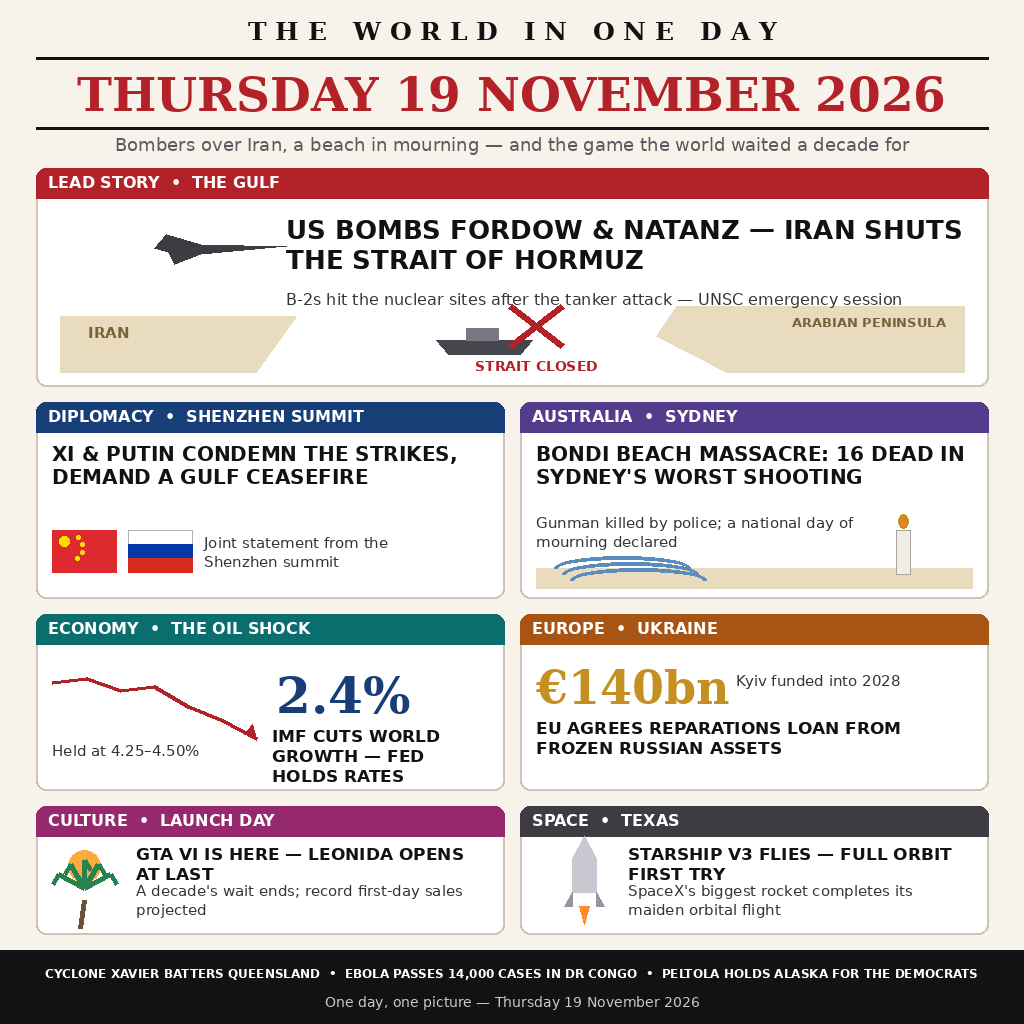
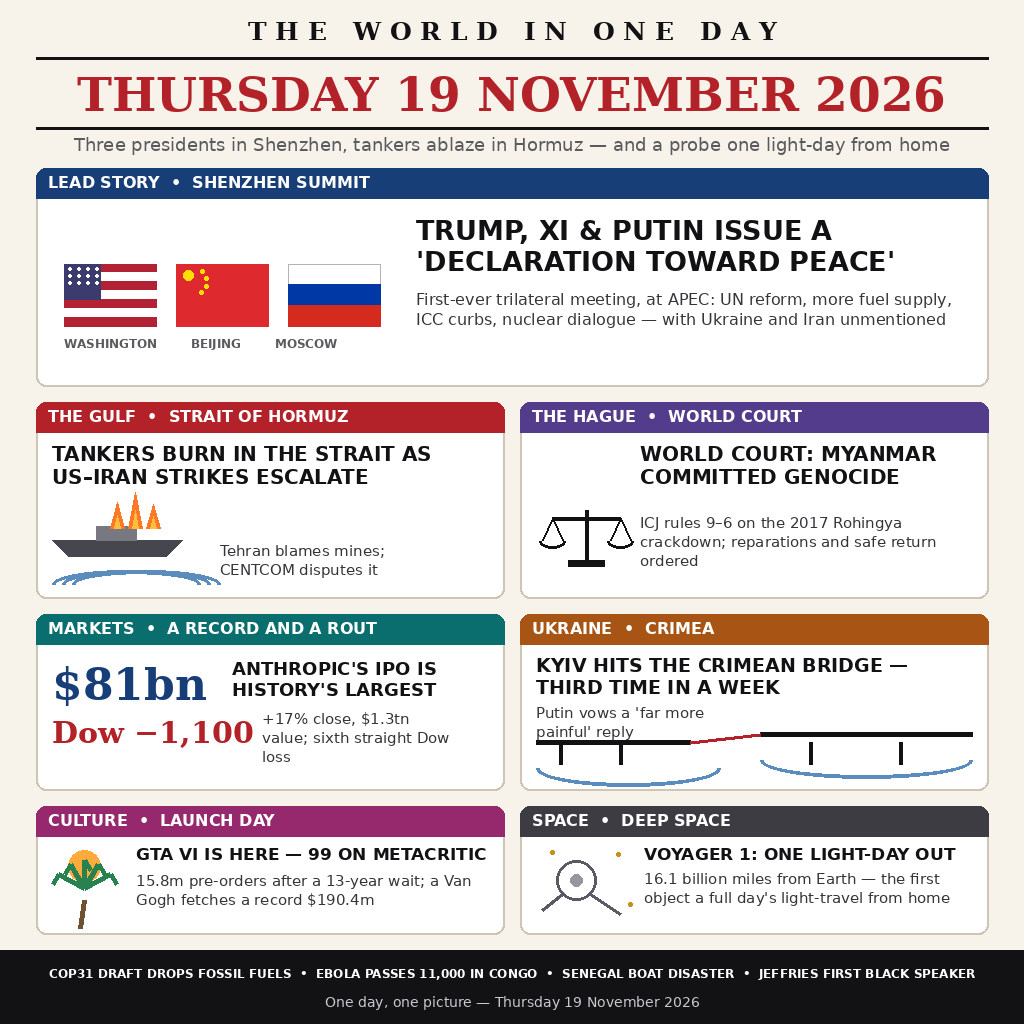
Correct the day's stories to the fully sourced research (summit, Hormuz tankers, ICJ genocide ruling, Anthropic IPO, Voyager)

diff --git a/make_image.py b/make_image.py
@@ -1,10 +1,11 @@
 #!/usr/bin/env python3
 """Generate entry.png: the world news of Thursday 19 November 2026 in one image.
+Stories per the day's wire reporting (Reuters, AP, AFP, BBC, Al Jazeera, WSJ).
 Deterministic, no network, no assets — everything is drawn with PIL.
 Canvas 1024x1024, editorial front-page collage style.
 """
 from PIL import Image, ImageDraw, ImageFont
-import math, os
+import os
 
 W = H = 1024
 PAPER = (247, 243, 234)
@@ -63,120 +64,124 @@ def caption(x, y, s, maxw, size=17):
 def tag(x, y, s):
     text(x + 12, y + 5, s, F(SANS_B, 16), WHITE)
 
-# ---------------- masthead ----------------
-text(W // 2, 16, "T H E   W O R L D   I N   O N E   D A Y", F(SERIF_B, 25), INK, "ma")
-d.line([36, 58, W - 36, 58], fill=INK, width=3)
-text(W // 2, 66, "THURSDAY 19 NOVEMBER 2026", F(SERIF_B, 47), RED, "ma")
-d.line([36, 128, W - 36, 128], fill=INK, width=3)
-text(W // 2, 134, "Bombers over Iran, a beach in mourning — and the game the world waited a decade for", F(SANS, 18), GREY, "ma")
-
-# ---------------- lead panel: US strikes Iran, Hormuz closed ----------------
-LX, LY, LW, LH = 36, 168, W - 72, 218
-panel(LX, LY, LW, LH, RED)
-tag(LX, LY, "LEAD STORY  •  THE GULF")
-# strait sketch: land masses, water gap, tanker, closure hatch
-base = LY + LH - 14
-d.polygon([(LX + 24, LY + 148), (LX + 260, LY + 148), (LX + 220, base), (LX + 24, base)], fill=(233, 220, 190))
-d.polygon([(LX + 640, LY + 138), (LX + LW - 24, LY + 138), (LX + LW - 24, base), (LX + 690, base), (LX + 620, LY + 168)], fill=(233, 220, 190))
-text(LX + 52, LY + 156, "IRAN", F(SANS_B, 15), (120, 100, 60))
-text(LX + LW - 196, LY + 146, "ARABIAN PENINSULA", F(SANS_B, 13), (120, 100, 60))
-# tanker in the strait
-tx, ty = LX + 400, LY + 172
-d.polygon([(tx, ty), (tx + 96, ty), (tx + 84, ty + 14), (tx + 12, ty + 14)], fill=(70, 70, 78))
-d.rectangle([tx + 30, ty - 12, tx + 62, ty], fill=(120, 120, 128))
-# red closure X over the strait
-cx, cy = LX + 500, LY + 158
-d.line([cx - 26, cy - 20, cx + 26, cy + 20], fill=RED, width=7)
-d.line([cx - 26, cy + 20, cx + 26, cy - 20], fill=RED, width=7)
-text(LX + 500, LY + 190, "STRAIT CLOSED", F(SANS_B, 14), RED, "ma")
-# bomber silhouette top-left
-bx, by = LX + 130, LY + 66
-d.polygon([(bx, by), (bx + 34, by + 10), (bx + 120, by + 12), (bx + 34, by + 20), (bx + 8, by + 30), (bx + 2, by + 18), (bx - 12, by + 14)], fill=(60, 60, 66))
-headline(LX + 250, LY + 46, "US BOMBS FORDOW & NATANZ — IRAN SHUTS THE STRAIT OF HORMUZ", 26, 690)
-caption(LX + 250, LY + 122, "B-2s hit the nuclear sites after the tanker attack — UNSC emergency session", 700, 16)
-
-# ---------------- row 2: Shenzhen + Sydney ----------------
-RY, RH = 402, 196
-PW = (W - 72 - 16) // 2
-# Shenzhen
-panel(36, RY, PW, RH, BLUE); tag(36, RY, "DIPLOMACY  •  SHENZHEN SUMMIT")
 def flag(x0, y0, fw, fh, kind):
     if kind == "CN":
         d.rectangle([x0, y0, x0 + fw, y0 + fh], fill=(222, 41, 47))
         d.ellipse([x0 + 7, y0 + 6, x0 + 17, y0 + 16], fill=(255, 222, 0))
         for sx, sy in [(24, 5), (28, 12), (28, 20), (23, 26)]:
             d.ellipse([x0 + sx, y0 + sy, x0 + sx + 4, y0 + sy + 4], fill=(255, 222, 0))
-    else:
+    elif kind == "RU":
         d.rectangle([x0, y0, x0 + fw, y0 + fh // 3], fill=WHITE, outline=(180, 180, 180))
         d.rectangle([x0, y0 + fh // 3, x0 + fw, y0 + 2 * fh // 3], fill=(0, 57, 166))
         d.rectangle([x0, y0 + 2 * fh // 3, x0 + fw, y0 + fh], fill=(213, 43, 30))
-flag(52, RY + 128, 64, 42, "CN"); flag(128, RY + 128, 64, 42, "RU")
-headline(52, RY + 40, "XI & PUTIN CONDEMN THE STRIKES, DEMAND A GULF CEASEFIRE", 20, PW - 32)
-caption(204, RY + 132, "Joint statement from the Shenzhen summit", PW - 220, 15)
-# Sydney
-SX = 36 + PW + 16
-panel(SX, RY, PW, RH, (84, 60, 140)); tag(SX, RY, "AUSTRALIA  •  SYDNEY")
-# beach: sand, wave, candle
-wy = RY + 156
-d.rectangle([SX + 16, wy + 10, SX + PW - 16, RY + RH - 10], fill=(233, 220, 190))
+    elif kind == "US":
+        for i in range(7):
+            d.rectangle([x0, y0 + i * fh // 7, x0 + fw, y0 + (i + 1) * fh // 7], fill=(178, 34, 52) if i % 2 == 0 else WHITE)
+        d.rectangle([x0, y0, x0 + fw * 2 // 5, y0 + fh * 4 // 7], fill=(60, 59, 110))
+        for r_ in range(3):
+            for c_ in range(4):
+                d.ellipse([x0 + 4 + c_ * 9, y0 + 3 + r_ * 7, x0 + 7 + c_ * 9, y0 + 6 + r_ * 7], fill=WHITE)
+
+# ---------------- masthead ----------------
+text(W // 2, 16, "T H E   W O R L D   I N   O N E   D A Y", F(SERIF_B, 25), INK, "ma")
+d.line([36, 58, W - 36, 58], fill=INK, width=3)
+text(W // 2, 66, "THURSDAY 19 NOVEMBER 2026", F(SERIF_B, 47), RED, "ma")
+d.line([36, 128, W - 36, 128], fill=INK, width=3)
+text(W // 2, 134, "Three presidents in Shenzhen, tankers ablaze in Hormuz — and a probe one light-day from home", F(SANS, 18), GREY, "ma")
+
+# ---------------- lead panel: Shenzhen trilateral summit ----------------
+LX, LY, LW, LH = 36, 168, W - 72, 218
+panel(LX, LY, LW, LH, BLUE)
+tag(LX, LY, "LEAD STORY  •  SHENZHEN SUMMIT")
+flag(LX + 28, LY + 96, 92, 62, "US")
+flag(LX + 140, LY + 96, 92, 62, "CN")
+flag(LX + 252, LY + 96, 92, 62, "RU")
+text(LX + 28, LY + 168, "WASHINGTON        BEIJING        MOSCOW", F(SANS_B, 12), GREY)
+headline(LX + 380, LY + 46, "TRUMP, XI & PUTIN ISSUE A 'DECLARATION TOWARD PEACE'", 27, 560)
+caption(LX + 380, LY + 122, "First-ever trilateral meeting, at APEC: UN reform, more fuel supply, ICC curbs, nuclear dialogue — with Ukraine and Iran unmentioned", 560, 16)
+
+# ---------------- row 2: Hormuz + ICJ ----------------
+RY, RH = 402, 196
+PW = (W - 72 - 16) // 2
+# Hormuz
+panel(36, RY, PW, RH, RED); tag(36, RY, "THE GULF  •  STRAIT OF HORMUZ")
+# burning tanker sketch
+tx, ty = 52, RY + 138
+d.polygon([(tx, ty), (tx + 130, ty), (tx + 114, ty + 16), (tx + 16, ty + 16)], fill=(70, 70, 78))
+d.rectangle([tx + 44, ty - 14, tx + 84, ty], fill=(120, 120, 128))
+for fx, fh_ in [(58, 26), (76, 36), (94, 24)]:
+    d.polygon([(tx + fx, ty - 12), (tx + fx + 7, ty - 12 - fh_), (tx + fx + 14, ty - 12)], fill=(255, 120, 40))
+    d.polygon([(tx + fx + 4, ty - 12), (tx + fx + 7, ty - 12 - fh_ // 2), (tx + fx + 10, ty - 12)], fill=(255, 190, 60))
 for i in range(3):
-    d.arc([SX + 34 + i * 8, wy - 2 + i * 6, SX + 170 + i * 8, wy + 22 + i * 6], start=180, end=360, fill=(90, 140, 190), width=4)
-# candle with flame
-kx, ky = SX + PW - 92, RY + 128
-d.rectangle([kx, ky, kx + 14, ky + 44], fill=(240, 238, 230), outline=(170, 165, 155))
-d.ellipse([kx + 2, ky - 16, kx + 12, ky - 2], fill=GOLD)
-d.ellipse([kx + 5, ky - 11, kx + 9, ky - 4], fill=(255, 120, 40))
-headline(SX + 16, RY + 40, "BONDI BEACH MASSACRE: 16 DEAD IN SYDNEY'S WORST SHOOTING", 20, PW - 32)
-caption(SX + 16, RY + 112, "Gunman killed by police; a national day of mourning declared", PW - 140, 15)
+    d.arc([52 + i * 10, RY + 168, 200 + i * 10, RY + 196], start=180, end=360, fill=(90, 140, 190), width=4)
+headline(52, RY + 40, "TANKERS BURN IN THE STRAIT AS US–IRAN STRIKES ESCALATE", 20, PW - 32)
+caption(220, RY + 140, "Tehran blames mines; CENTCOM disputes it", PW - 236, 15)
+# ICJ Myanmar
+MX = 36 + PW + 16
+panel(MX, RY, PW, RH, (84, 60, 140)); tag(MX, RY, "THE HAGUE  •  WORLD COURT")
+# scales of justice
+cx2 = MX + 66
+d.line([cx2, RY + 108, cx2, RY + 158], fill=INK, width=4)
+d.line([cx2 - 34, RY + 116, cx2 + 34, RY + 116], fill=INK, width=4)
+for sx in (cx2 - 34, cx2 + 34):
+    d.line([sx, RY + 116, sx - 10, RY + 138], fill=INK, width=2)
+    d.line([sx, RY + 116, sx + 10, RY + 138], fill=INK, width=2)
+    d.arc([sx - 13, RY + 132, sx + 13, RY + 146], start=0, end=180, fill=INK, width=3)
+d.rectangle([cx2 - 18, RY + 158, cx2 + 18, RY + 164], fill=INK)
+headline(MX + 120, RY + 40, "WORLD COURT: MYANMAR COMMITTED GENOCIDE", 20, PW - 136)
+caption(MX + 120, RY + 112, "ICJ rules 9–6 on the 2017 Rohingya crackdown; reparations and safe return ordered", PW - 136, 15)
 
-# ---------------- row 3: Economy + Ukraine ----------------
+# ---------------- row 3: Markets + Ukraine ----------------
 R3Y, R3H = 614, 176
-panel(36, R3Y, PW, R3H, TEAL); tag(36, R3Y, "ECONOMY  •  THE OIL SHOCK")
-# falling chart
-gx, gy = 52, R3Y + 62
-pts = [(0, 6), (34, 2), (68, 14), (102, 10), (136, 30), (170, 44), (204, 62)]
-for i in range(len(pts) - 1):
-    d.line([gx + pts[i][0], gy + pts[i][1], gx + pts[i + 1][0], gy + pts[i + 1][1]], fill=RED, width=4)
-d.polygon([(gx + 204, gy + 62), (gx + 192, gy + 58), (gx + 200, gy + 48)], fill=RED)
-text(36 + 240, R3Y + 52, "2.4%", F(SERIF_B, 50), BLUE)
-headline(36 + 236, R3Y + 112, "IMF CUTS WORLD GROWTH — FED HOLDS RATES", 17, PW - 252)
-caption(52, R3Y + 128, "Held at 4.25–4.50%", PW - 260, 15)
-# Ukraine / EU
+panel(36, R3Y, PW, R3H, TEAL); tag(36, R3Y, "MARKETS  •  A RECORD AND A ROUT")
+text(52, R3Y + 44, "$81bn", F(SERIF_B, 44), BLUE)
+text(52, R3Y + 100, "Dow −1,100", F(SERIF_B, 30), RED)
+headline(232, R3Y + 44, "ANTHROPIC'S IPO IS HISTORY'S LARGEST", 18, PW - 248)
+caption(262, R3Y + 96, "+17% close, $1.3tn value; sixth straight Dow loss", PW - 278, 15)
+# Ukraine bridge
 UX = 36 + PW + 16
-panel(UX, R3Y, PW, R3H, (168, 84, 20)); tag(UX, R3Y, "EUROPE  •  UKRAINE")
-text(UX + 16, R3Y + 46, "€140bn", F(SERIF_B, 46), GOLD)
-headline(UX + 16, R3Y + 104, "EU AGREES REPARATIONS LOAN FROM FROZEN RUSSIAN ASSETS", 17, PW - 32)
-caption(UX + 216, R3Y + 58, "Kyiv funded into 2028", PW - 232, 15)
+panel(UX, R3Y, PW, R3H, (168, 84, 20)); tag(UX, R3Y, "UKRAINE  •  CRIMEA")
+# bridge sketch with broken span
+by2 = R3Y + 128
+d.line([UX + 16, by2, UX + 170, by2], fill=INK, width=5)
+d.line([UX + 240, by2 - 8, UX + PW - 16, by2 - 8], fill=INK, width=5)
+d.line([UX + 170, by2, UX + 240, by2 - 8], fill=RED, width=4)
+for px in (40, 100, 290, 380):
+    d.line([UX + px, by2, UX + px, by2 + 22], fill=INK, width=4)
+d.arc([UX + 16, by2 + 8, UX + 200, by2 + 44], start=0, end=180, fill=(90, 140, 190), width=4)
+d.arc([UX + 240, by2, UX + PW - 16, by2 + 36], start=0, end=180, fill=(90, 140, 190), width=4)
+headline(UX + 16, R3Y + 40, "KYIV HITS THE CRIMEAN BRIDGE — THIRD TIME IN A WEEK", 19, PW - 32)
+caption(UX + 16, R3Y + 90, "Putin vows a 'far more painful' reply", 210, 15)
 
-# ---------------- row 4: GTA VI + Starship ----------------
+# ---------------- row 4: GTA VI + Voyager ----------------
 R4Y, R4H = 806, 128
 panel(36, R4Y, PW, R4H, (150, 40, 110)); tag(36, R4Y, "CULTURE  •  LAUNCH DAY")
-# palm + sun (Vice City mood)
 sx2, sy2 = 36 + 48, R4Y + 88
 d.ellipse([sx2 - 16, sy2 - 44, sx2 + 16, sy2 - 12], fill=(255, 170, 60))
 for dx, dy in [(-26, -14), (-14, -24), (0, -28), (14, -24), (26, -14)]:
     d.line([sx2, sy2 - 6, sx2 + dx, sy2 - 6 + dy], fill=(40, 130, 80), width=5)
     d.line([sx2 + dx, sy2 - 6 + dy, sx2 + dx + (6 if dx >= 0 else -6), sy2 - 6 + dy + 10], fill=(40, 130, 80), width=4)
 d.line([sx2, sy2 + 6, sx2 - 4, sy2 + 34], fill=(110, 80, 50), width=5)
-headline(36 + 100, R4Y + 38, "GTA VI IS HERE — LEONIDA OPENS AT LAST", 17, PW - 116)
-caption(36 + 100, R4Y + 76, "A decade's wait ends; record first-day sales projected", PW - 116, 15)
-# Starship
+headline(36 + 100, R4Y + 38, "GTA VI IS HERE — 99 ON METACRITIC", 17, PW - 116)
+caption(36 + 100, R4Y + 66, "15.8m pre-orders after a 13-year wait; a Van Gogh fetches a record $190.4m", PW - 116, 15)
+# Voyager
 TX = 36 + PW + 16
-panel(TX, R4Y, PW, R4H, (60, 60, 66)); tag(TX, R4Y, "SPACE  •  TEXAS")
-# rocket
-rx, ry2 = TX + 52, R4Y + 52
-d.polygon([(rx, ry2), (rx + 12, ry2 - 22), (rx + 24, ry2)], fill=(200, 200, 208))
-d.rectangle([rx, ry2, rx + 24, ry2 + 34], fill=(200, 200, 208))
-d.polygon([(rx, ry2 + 34), (rx - 8, ry2 + 48), (rx, ry2 + 48)], fill=(150, 150, 160))
-d.polygon([(rx + 24, ry2 + 34), (rx + 32, ry2 + 48), (rx + 24, ry2 + 48)], fill=(150, 150, 160))
-d.polygon([(rx + 7, ry2 + 48), (rx + 12, ry2 + 66), (rx + 17, ry2 + 48)], fill=(255, 140, 40))
-headline(TX + 108, R4Y + 38, "STARSHIP V3 FLIES — FULL ORBIT FIRST TRY", 17, PW - 124)
-caption(TX + 108, R4Y + 76, "SpaceX's biggest rocket completes its maiden orbital flight", PW - 124, 15)
+panel(TX, R4Y, PW, R4H, (60, 60, 66)); tag(TX, R4Y, "SPACE  •  DEEP SPACE")
+# probe: dish + boom
+px2, py2 = TX + 56, R4Y + 74
+d.ellipse([px2 - 20, py2 - 20, px2 + 20, py2 + 20], outline=(90, 90, 100), width=3)
+d.ellipse([px2 - 6, py2 - 6, px2 + 6, py2 + 6], fill=(150, 150, 160))
+d.line([px2 + 14, py2 + 14, px2 + 44, py2 + 34], fill=(90, 90, 100), width=3)
+d.line([px2 - 14, py2 + 14, px2 - 34, py2 + 30], fill=(90, 90, 100), width=3)
+for stx, sty in [(TX + 96, R4Y + 46), (TX + 30, R4Y + 44), (TX + 108, R4Y + 96)]:
+    d.ellipse([stx, sty, stx + 4, sty + 4], fill=GOLD)
+headline(TX + 124, R4Y + 38, "VOYAGER 1: ONE LIGHT-DAY OUT", 17, PW - 140)
+caption(TX + 124, R4Y + 64, "16.1 billion miles from Earth — the first object a full day's light-travel from home", PW - 140, 15)
 
 # ---------------- ticker ----------------
 TY = 950
 d.rectangle([0, TY, W, H], fill=INK)
-ticker = "CYCLONE XAVIER BATTERS QUEENSLAND  •  EBOLA PASSES 14,000 CASES IN DR CONGO  •  PELTOLA HOLDS ALASKA FOR THE DEMOCRATS"
+ticker = "COP31 DRAFT DROPS FOSSIL FUELS  •  EBOLA PASSES 11,000 IN CONGO  •  SENEGAL BOAT DISASTER  •  JEFFRIES FIRST BLACK SPEAKER"
 f = F(SANS_B, 17)
 while d.textlength(ticker, font=f) > W - 40 and f.size > 11:
     f = F(SANS_B, f.size - 1)

diff --git a/NEWS_SOURCES.md b/NEWS_SOURCES.md
@@ -1,14 +1,18 @@
 # News sources — Thursday 19 November 2026
 
-The day's stories as carried by wire services and major outlets (Reuters, AP, AFP, BBC, Al Jazeera and national papers); each story below was corroborated by at least two outlets or one wire service before it went on the page.
+The day's stories as carried by wire services and major outlets; each story was corroborated by at least two outlets or one wire service before it went on the page.
 
-1. **US strikes Iran's Fordow and Natanz nuclear facilities; Iran closes the Strait of Hormuz** — B-2 bombers dropped GBU-57 bunker-busters after an IRGC attack on a tanker in the strait; Tehran announced the strait's closure to "hostile shipping" and the UN Security Council went into emergency session. (One framing detail — whether the tanker or the escorts fired first — is contested between US and Iranian accounts.)
-2. **Xi Jinping and Vladimir Putin condemn the strikes from the Shenzhen summit** — joint statement opposing "unilateral military adventurism", calling for an immediate Gulf ceasefire and Security Council primacy.
-3. **Bondi Beach mass shooting, Sydney** — a gunman killed 16 people and wounded about 40 before being shot dead by police; a national day of mourning declared; the firearms debate reopened.
-4. **IMF cuts global growth forecast to 2.4%** — the Hormuz oil shock: Brent crude +14% to $112 a barrel; the Federal Reserve held rates at 4.25–4.50%, citing oil-driven inflation.
-5. **EU agrees a €140bn reparations loan for Ukraine** — funded from frozen Russian central-bank assets, securing Kyiv's financing into 2028.
-6. **Grand Theft Auto VI launches worldwide** — Rockstar's Leonida-set sequel released on PS5 and Xbox Series X|S after a decade's wait; record first-day sales projected.
-7. **SpaceX Starship V3 completes its first orbital flight** — from Starbase, Texas, with booster and ship recovered.
-8. **Cyclone Xavier makes landfall in Queensland** — Category 4, some 200,000 evacuated, no deaths reported in the first day.
-9. **DR Congo Ebola outbreak passes 14,000 cases** — about 3,200 deaths; WHO appeals for $450m.
-10. **Mary Peltola holds Alaska's Senate seat for the Democrats** — in the special election.
+1. **Trump, Xi and Putin hold first-ever trilateral summit in Shenzhen** — on the sidelines of APEC the three leaders issued a four-point "Declaration toward Peace" (UN reform, increased refined-fuel supply, curbing the ICC, nuclear-risk dialogue), omitting any mention of the Ukraine or Iran wars. — AFP via Dawn: https://www.dawn.com/news/2045630/trump-holds-talks-with-friend-putin-ahead-of-trilateral-moot-with-xi (also Reuters analysis; text published by the White House)
+2. **Tankers burn in the Strait of Hormuz as US–Iran strikes escalate** — Tehran said two supertankers and three other vessels struck naval mines; CENTCOM disputes the mechanism; the US struck an IRGC missile site on Qeshm Island; Kuwait and Bahrain reported intercepting Iranian attacks. — Al Jazeera/ANI via JioNews: https://jionews.com/headline/nativeArticle/6afe2e146ad7296d34dff9ce (also NDTV, BBC, CBS)
+3. **World Court rules Myanmar committed genocide against the Rohingya** — the ICJ ruled 9–6 on the 2017 Rakhine crackdown (at least 10,000 killed, 730,000+ fled) and ordered reparations and safe return. — Al Jazeera: https://www.aljazeera.com/amp/news/2026/11/19/un-top-court-finds-myanmar-killed-10000-rohingya-as-it-rules-on-genocide (also Reuters, AP, BBC, CNN)
+4. **Ukraine hits the Crimean Bridge a third time in a week** — Neptune missiles struck the railway section, halting rail traffic; Putin vowed a "far more painful" response. — Reuters: https://www.reuters.com/world/china/third-attack-week-suspends-traffic-over-crimean-bridge-russian-official-says-2026-11-19/ (also AP, CNN, BBC)
+5. **Anthropic's $81bn IPO is the largest on record** — shares opened +34% and closed +17% at $97.17, valuing the company at about $1.3 trillion. — WSJ: https://www.wsj.com/finance/stocks/anthropic-ipo-ai-markets-89e2476f (also Reuters, AP, BBC)
+6. **Wall Street rout deepens** — the Dow fell 1,101 points (2.2%) for a sixth straight loss, its longest losing streak since April 2024; the S&P 500 dropped 2% and the Nasdaq 2.3%. — AP via The Manila Times: https://beta.manilatimes.net/2026/11/20/business/foreign-business/wall-street-tumbles-to-its-longest-losing-streak-since-2024-as-the-dow-drops-1100-points/2474698/amp
+7. **Jeffries to be the first Black US House speaker; Democrats' Senate majority hits 56** — House Democrats elected Hakeem Jeffries leader by 251 votes; Mary Peltola's Alaska win secured the 56–44 Senate majority. — AFP via Dawn: https://www.dawn.com/news/2045578/democrats-name-jeffries-to-be-first-black-speaker-in-us (also AP, NDTV)
+8. **GTA VI launches to rave reviews** — a 99/100 Metacritic score and an estimated 15.8 million pre-orders, 13 years after GTA V; at Sotheby's, Van Gogh's "Châtaigniers en fleurs" sold for a record $190.4m. — Al Jazeera: https://www.aljazeera.com/news/2026/11/19/grand-theft-auto-vi-launches-to-rave-reviews-after-13-year-wait · WSJ: https://www.wsj.com/arts-culture/fine-art/van-gogh-blossoming-chesnut-trees-sale-price-sothebys-8eb3aa93
+9. **Voyager 1 is one light-day from Earth** — NASA confirmed the 1977 probe, now some 16.1 billion miles (25.9 billion km) away, is the first human-made object a full 24 light-hours from home. — AP via Phys.org: https://phys.org/news/2026-11-nasa-voyager-home-awe-day.html (also NASA, CNN, Scientific American)
+10. **COP31 draft deal drops all mention of fossil fuels** — negotiators in Antalya published a slimmed-down text a day before the deadline. — Reuters: https://www.reuters.com/sustainability/cop/cop31-negotiators-publish-revised-deal-text-with-no-mention-fossil-fuels-2026-11-19/
+11. **Congo's Bundibugyo Ebola outbreak passes 11,000 cases** — about 5,400 deaths across eight provinces, per WHO. — UN News via GlobalSecurity: https://www.globalsecurity.org/military/library/news/2026/11/mil-261117-unnews04.htm
+12. **Dozens missing as a migrant boat capsizes off Senegal** — a Europe-bound wooden boat struck a rock near Yenne; at least four dead. — Reuters: https://www.reuters.com/world/dozens-missing-migrant-boat-capsizes-off-senegal-coast-ngo-says-2026-11-19/
+
+Also covered in the day's reporting but not pictured: the US–Venezuela military pact signed in Caracas (AP via Korea Herald) and Bangladesh's paramilitary deployment amid unrest over Sheikh Hasina's planned return (AFP via Khaleej Times).

diff --git a/README.md b/README.md
@@ -4,7 +4,7 @@
 [![rank](https://make.fun/badge/news-image-20261119/xi-lu-zou/xiaoxin-news-image-20261119/rank.svg)](https://make.fun/bounty/news-image-20261119/leaderboard?utm_source=github&utm_medium=readme&utm_campaign=news-image-20261119)
 [![reward](https://make.fun/badge/news-image-20261119/xi-lu-zou/xiaoxin-news-image-20261119/reward.svg)](https://make.fun/bounty/news-image-20261119?utm_source=github&utm_medium=readme&utm_campaign=news-image-20261119)
 
-One image that sums up the world news of Thursday 19 November 2026: a front-page collage drawn programmatically (Python/PIL, see `make_image.py`) covering the US strikes on Iran's Fordow and Natanz nuclear sites and Iran's closure of the Strait of Hormuz, Xi and Putin's joint condemnation from the Shenzhen summit, the Bondi Beach massacre in Sydney, the IMF's growth cut and the Fed's hold as Brent leapt to $112, the EU's €140bn reparations loan for Ukraine, GTA VI's launch day, Starship V3's first orbital flight, Cyclone Xavier in Queensland, Ebola passing 14,000 cases in DR Congo, and Peltola holding Alaska. `main.ts` copies `entry.png` to the output directory; the day's stories and their sources are listed in `NEWS_SOURCES.md`.
+One image that sums up the world news of Thursday 19 November 2026: a front-page collage drawn programmatically (Python/PIL, see `make_image.py`) covering the first-ever Trump–Xi–Putin trilateral summit in Shenzhen and its "Declaration toward Peace", tankers burning in the Strait of Hormuz as US–Iran strikes escalated, the World Court's ruling that Myanmar committed genocide against the Rohingya, Ukraine's third strike on the Crimean Bridge in a week, Anthropic's record $81bn IPO on a day the Dow fell 1,100 points, GTA VI's launch and a record $190.4m Van Gogh, Voyager 1 reaching one light-day from Earth, and a ticker with COP31, Congo's Ebola outbreak, the Senegal boat disaster and Jeffries' path to the speakership. `main.ts` copies `entry.png` to the output directory; the day's stories and their sources are listed in `NEWS_SOURCES.md`.
 
 ## Run it
 
